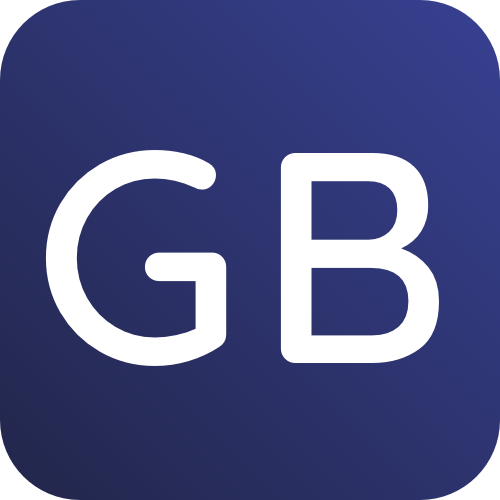
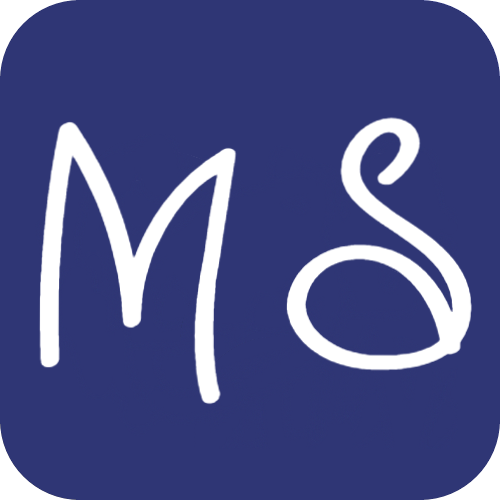
Change favicona and tag line

diff --git a/src/pages/index.js b/src/pages/index.js
@@ -17,9 +17,9 @@ export default function IndexPage({ data }) {
           <br />I help people make the web great.
         </HeroTitle>
         <HeroTeaser>
-          I am a software engineer based in Paris. I create tools and teach how
-          to build high quality websites and applications using JavaScript and
-          React.
+          I am India-based SEO executive turned freelance writer specializing in
+          writing web blogs to case studies for various industries that converts
+          and increasing organic search rankings.
         </HeroTeaser>
       </Hero>
       <Container forwardedAs="section" pb={5}>
